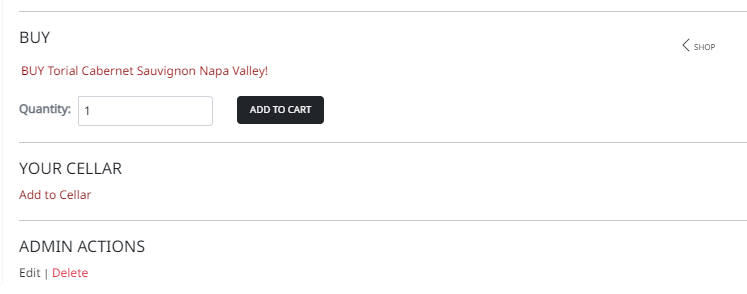
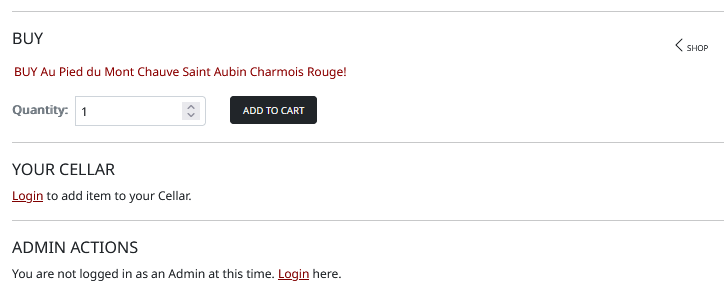
docs: Added stories V3, S-1, C-1, C-2, A-1, A-2; updated  testing images for V-2

diff --git a/README.md b/README.md
@@ -45,7 +45,6 @@ Spilt Wine is an ecommerce website that sells wines, wine accessories, and culin
 
 >-  I used the User Story list shown in the CI curriculum as a template:
 >-  User Story List  - [View PDF](_documentation/product_specs/MS4_User_Stories_v1.pdf)
->-  User Story List  - [View HTML](_documentation/product_specs/MS4_User_Stories_v1.html)
 >-  Full User Story detail is provided below but only for truly custom apps and any app I customized heavily.
 >-  The lists above contain all user stories that were used to test the deployed project.
 >-  I decided to track most of the user stories as a spreasheet given the number of stories and ease of import into a work tracking app (such as Jira) in the future if I so chose.
@@ -63,7 +62,7 @@ All Acceptance Criteria Results can be found in [TESTRM.md](TESTRM.md)
     -   #### **Story V-2** As a Visitor/Shopper I want to be able to view individual product details so that I can determine a product description, image, and product info.
         -  #### *Acceptance Criteria*
             1.  Product details view should be accessible from all product listings, featured sidebars, product summaries (eg in the Cart or Cellar summaries), and search results summaries
-            2.  The wine detail view should present all of the following information: product name, varietal, product image, price, a full description, origin of wine, size, units for size, wine type, body, ABV, style
+            2.  The wine detail view should present all of the following information: vintage, product name, brand, varietal, product image, price, a full description, origin of wine, size, units for size, wine type, body, ABV, style
             3.  Present an Add to Cart option, for all users
             4.  Present an Add to Cellar option, for authenticated users
             5.  Present an Edit and Delete option, for admin authenticated users
@@ -80,24 +79,58 @@ All Acceptance Criteria Results can be found in [TESTRM.md](TESTRM.md)
             1.  A dropdown is presented in the main menu for the user to sort products by name (all products in alpha order), price, country/state, and varietal (for wine products)
             2.  A dropdown is presented in the product category listings for the user to sort products by name (all products in alpha order), price, country/state, and varietal (for wine products)
 
--   ### Administrator
-    -   #### **Story A-1** As an Administrator I want to be able to add, update, and delete wine products in the wine product database so that I can provide access to their information throughout the website.
+-   ### Authenticated User
+    -   #### **Story C-1** As a/an Logged In User I want to be able to add, update, or delete wines from a personal library so that I can see a listing of all the wine I have in my wine collection.
         -  #### *Acceptance Criteria*
-            1.  A link to a wine product administrative view should be presented on the wine product details view for all users with editing rights or admin privileges.
+            1.  An Add to Cellar option is presented to authenticated users on the wine details view
+            2.  The option adds the wine to the user's cellar, confirms an item has been added, then redirects to the user's cellar
+            3.  A Cellar icon is presented to all users in a menu panel on all main views which directs the user to their cellar view
+            4.  Clicking Cellar icon: Authenticated users are directed to their personal cellar view
+            5.  Clicking Cellar icon: Unauthenticated users are directed to the login page
+            6.  The Cellar view displays a message if the cellar is empty
+            7.  A list of saved cellar items is presented if items have been added to the user's cellar. The list displays the product image, name, vintage, SKU, price, quantity on-hand in cellar, and subtotal value of each cellar item
+            8.  The quantity on-hand field displays the current quantity of the item in the user's cellar and is editable; quantity can be updated
+            9.  Update is confirmed
+            10.  The item can be removed from the Cellar
+
+    -   #### **Story C-2** As a/an Logged In User I want to be able to view metrics of my wine library so that I can understand the make up of my wine collection.
+        -  #### *Acceptance Criteria*
+            1.  A cellar statistics panel is displayed to the user displaying the following information based on the wines in the user's cellar:
+            >- Cellar Value
+            >- Number of items in the cellar
+            >- Number of varietals in the cellar
+            >- A list of the different varietals represented in the cellar
+
+            2.  What messaging does the user get when they arrive?
+            3.  What's it do when I get there?
+            4.  What messaging does the user get when they are there?
+            5.  How do I get out of there?
+            6.  What messaging does the user get when they leave?
+
+-   ### Administrator
+    -   #### **Story A-1** As an Administrator I want to be able to add and delete wine products in the wine product database so that I can provide access to their information throughout the website.
+        -  #### *Acceptance Criteria*
+            1.  A link to a wine product management option should be presented on the user menu dropdown for all users with editing rights or admin privileges.
+            2.  The option should present the user with a method to add a new product
+            3.  The method should present a form that allows the user to input all required and optional data for the product
+                -   Included fields for wine products (*required fields): *product name, vintage, brand, SKU, featured option, product image, product image url, has sizes option, *size, measure, price, *a full description, *country or state origin, region origin, appellation origin, *wine type, *varietal, *body, *style, ABV, taste field
+            4.  Upon clicking, an Add Product submit button should inform the user the product data has been saved and redirect the user to the new product's detail view
+            5.  Product information is added correctly
+            6.  A link to delete a wine product should be presented on the wine product details view for all users with editing rights or admin privileges
+            7.  A confirmation method should be presented to the admin to confirm product deletion
+            8.  User is returned to the product category view when user confirms deletion
+            9.  Message is displayed indicating the product was deleted successfully
+
+    -   #### **Story A-2** As an Administrator I want to be able to update wine products in the wine product database so that I can provide access to their information throughout the website.
+        -  #### *Acceptance Criteria*
+            1.  A link to a wine product edit view should be presented on the wine product details view for all users with editing rights or admin privileges.
             2.  Once at the product admin view, a message indicating what product is being edited should be present
             3.  The wine product admin view should contain all the following fields (read only fields are indicated, otherwise all fields can be edited): product name, vintage, brand, SKU, featured option, product image, product image url, has sizes option, size, measure, price, a full description, country or state origin, region origin, appellation origin, wine type, varietal, body, style, ABV, taste field
             4.  Product information is updated correctly when I submit changes
             5.  User is returned to the product detail page when changes are submitted
             6.  Message is displayed indicating save was completed successfully
 
-    -   #### **Story A-2** As an Administrator I want to be able to add, update, and delete wine products in the wine product database so that I can provide access to their information throughout the website.
-        -  #### *Acceptance Criteria*
-            1.  A link to a wine product administrative view should be presented on the wine product details view for all users with editing rights or admin privileges.
-            2.  Once at the product admin view, a message indicating what product is being edited should be present
-            3.  The wine product admin view should contain all the following fields (read only fields are indicated, otherwise all fields can be edited): product name, vintage, brand, SKU, featured option, product image, product image url, has sizes option, size, measure, price, a full description, country or state origin, region origin, appellation origin, wine type, varietal, body, style, ABV, taste field
-            4.  Product information is updated correctly when I submit changes
-            5.  User is returned to the product detail page when changes are submitted
-            6.  Message is displayed indicating save was completed successfully
+
 
     -   #### **Story Template** As an Administrator I want to be able to add, update, and delete products in the product database so that I am able to access their information through the website.
         -  #### *Acceptance Criteria*

diff --git a/TESTRM.md b/TESTRM.md
@@ -235,18 +235,18 @@ The W3C Markup Validator and W3C CSS Validator Services were used to validate al
 -   ### Visitor/Shopper
     -   #### **Story V-1** As a Visitor/Shopper I want to be able to view a list of products so that I can select a product to purchase.
         -  #### *Acceptance Criteria*
-            1.  A list of product sub-categories is presented
+            1.  A list of product categories is presented
                 -   PASS: All criteria met.
                     -   The View Our Products link on the home page presents products listed by product category:
-                    -   <img src="_documentation/testing/user-stories/US-V-1-01.png" />
-            2.  Sub-category links present user with sub-category product listings
+                    -   <img src="_documentation/testing/user-stories/US-V-1-01.png" width="250"/>
+            2.  Category links present user with category product listings
                 -   BUG: Only the Wine category links work. Please see opening notes on README.md
                     -   The Wine links present user with products sorted by the wine category:
-                    -   <img src="_documentation/testing/user-stories/US-V-1-02.png" />
+                    -   <img src="_documentation/testing/user-stories/US-V-1-02.png" width="250"/>
             3.  Product listings and featured sidebars should display as product cards displaying: product name, varietal (for wines), product image, price, a truncated description, origin of wine (for wines)
                 -   PASS: All criteria met.
                     -   Products are presented with correct information:
-                    -   <img src="_documentation/testing/user-stories/US-V-1-03.png" />
+                    -   <img src="_documentation/testing/user-stories/US-V-1-03.png" width="250"/>
             4.  Product image and name should link to product detail page (described below)
                 -   PASS: All criteria met.
                     -   The product titles and images link to a product detail page.
@@ -259,16 +259,16 @@ The W3C Markup Validator and W3C CSS Validator Services were used to validate al
             2.  The wine detail view should present all of the following information: product name, varietal, product image, price, a full description, origin of wine, size, units for size, wine type, body, ABV, style
                 -   PASS: All criteria met.
                     -   Products are presented with correct information:
-                    -   <img src="_documentation/testing/user-stories/US-V-2-01.png" />
+                    -   <img src="_documentation/testing/user-stories/US-V-2-01.png"/>
             3.  Present an Add to Cart option, for all users
                 -   PASS: All criteria met.
                     -   An Add to Cart option is presented to all users.
             4.  Present an Add to Cellar option, for authenticated users. If user is not authenticated a login option is displayed.
                 -   PASS: All criteria met.
                     -   Add to Cellar is only presented to authenticated users; Login option is displayed otherwise.
-                    Unauthenticated User:
+                    -   Unauthenticated User:
                     -   <img src="_documentation/testing/user-stories/US-V-2-02.png" />
-                    Authenticated User:
+                    -   Authenticated User:
                     -   <img src="_documentation/testing/user-stories/US-V-2-03.png" />
             5.  Present an Edit and Delete option, for admin authenticated users
                 -   PASS: All criteria met.
